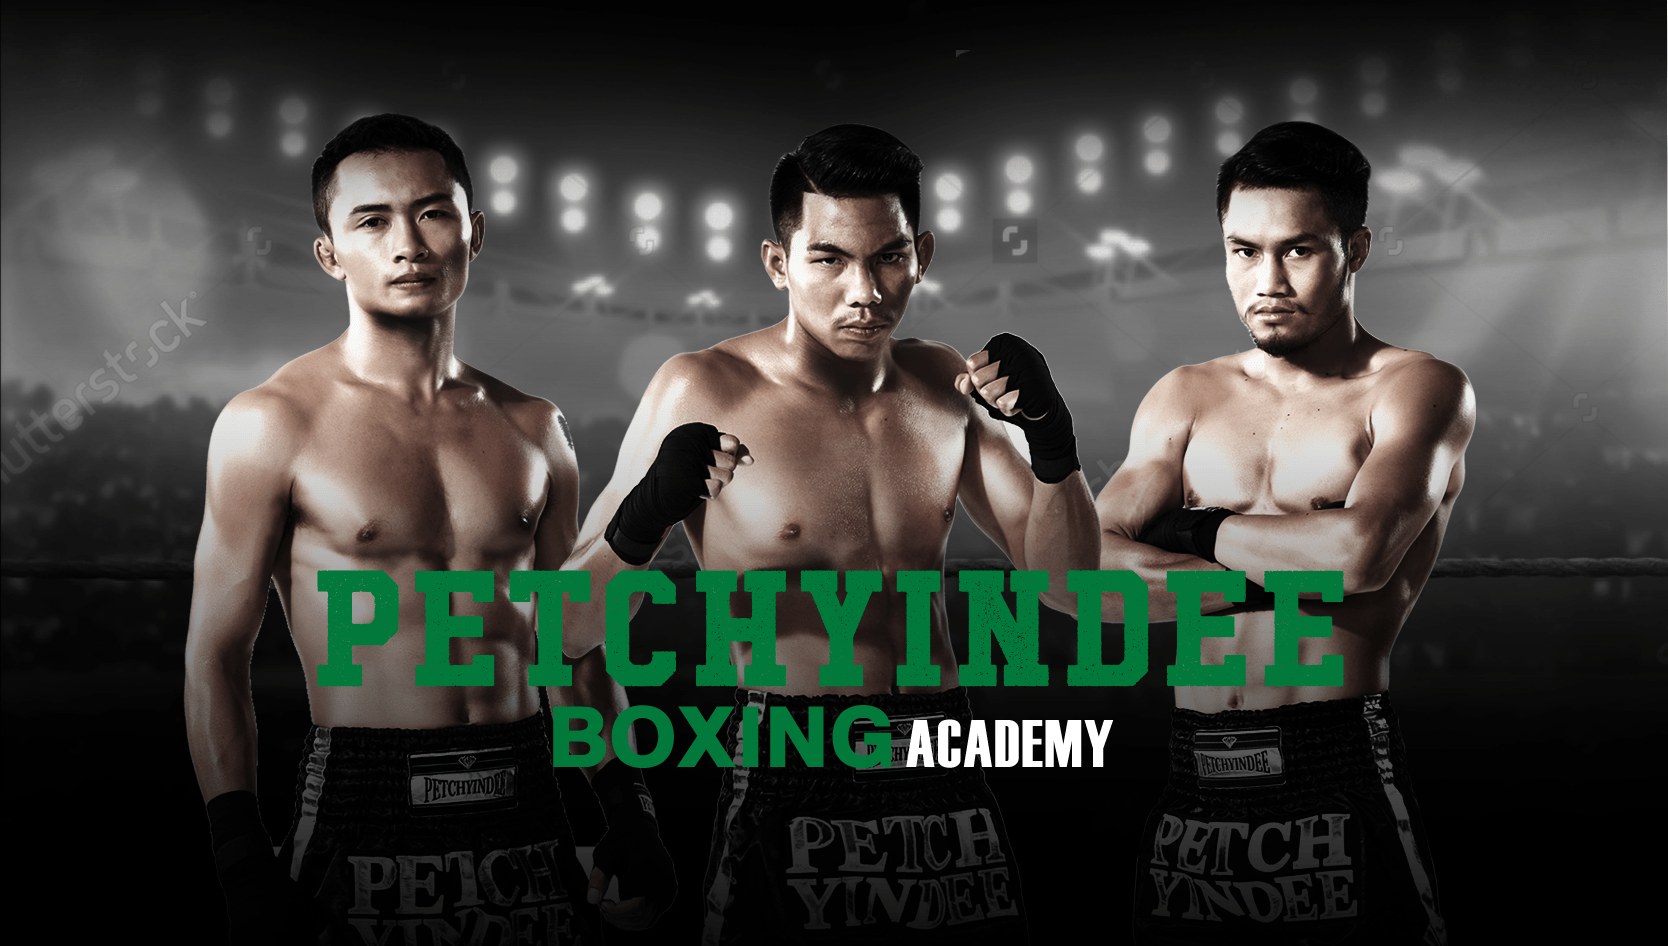
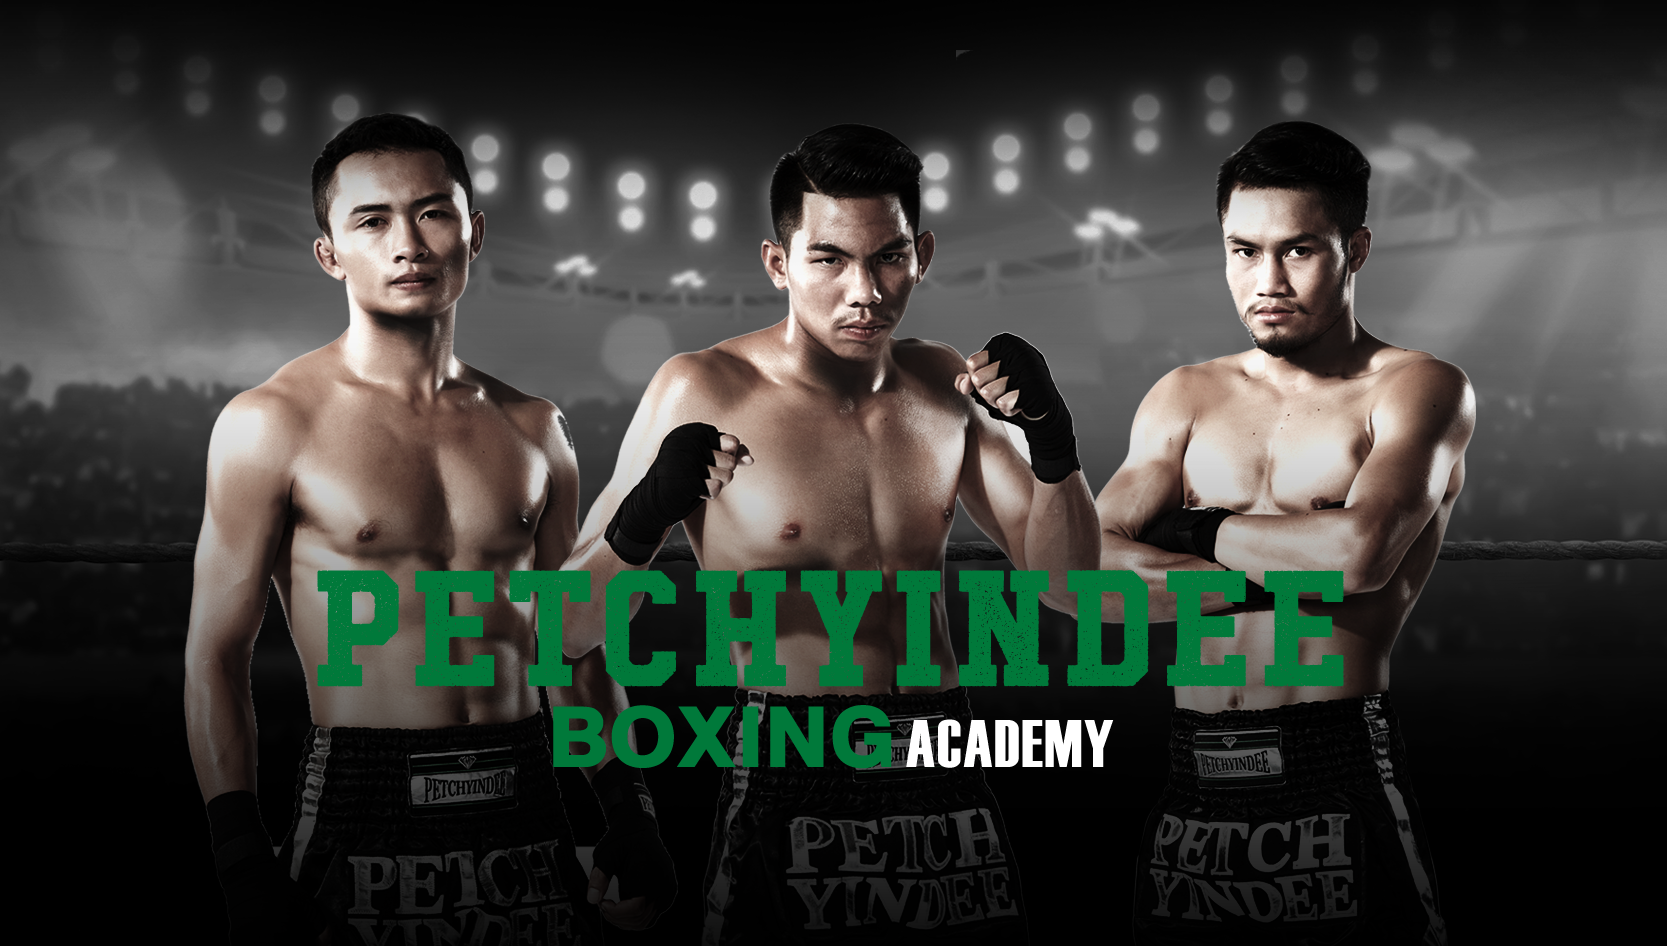
Change activity layout and header image

diff --git a/index.html b/index.html
@@ -67,38 +67,67 @@
         </div>
       </div>
     </div>
-    <div class="row ">
-      <div class="col-md-4 activity">
-        <div class="activity-container">
-          <img src="/images/muay-thai.png" />
-          <div class="caption">
-            <h4 class="text-green">MUAY THAI</h4>
-            <p class="desc">This class is a fun basic introduction to Muay Thai in a group-training environment where everyone learns how to kick, punch
-            and use their knees and elbows.</p>
-          </div>
+    <div class="activity-container">
+      <div class="row ">
+        <div class="col-md-4 activity">
+          <a href="#" class="activity-box">
+            <img src="/images/muay-thai.png" />
+            <div class="title-container">
+              <div class="title">MUAY THAI</div>
+              <div class="view-more">VIEW MORE</div>
+            </div>
+          </a>
+        </div>
+        <div class="col-md-4 activity">
+          <a href="#" class="activity-box">
+            <img src="/images/group-class.png" />
+            <div class="title-container">
+              <div class="title">TEMPO TRAMP</div>
+              <div class="view-more">VIEW MORE</div>
+            </div>
+          </a>
+        </div>
+        <div class="col-md-4 activity">
+          <a href="#" class="activity-box">
+            <img src="/images/circuit-training.png" />
+            <div class="title-container">
+              <div class="title">CIRCUIT TRAINING</div>
+              <div class="view-more">VIEW MORE</div>
+            </div>
+          </a>
         </div>
       </div>
-      <div class="col-md-4 activity">
-        <div class="activity-container">
-          <img src="/images/group-class.png" />
-          <div class="caption">
-            <h4 class="text-green">TEMPO TRAMP</h4>
-            <p class="desc">Bouncing on a mini trampoline is an enjoyable low-impact workout that can provide you with numerous cardiovascular, health
-            and fitness benefits.</p>
-          </div>
+      <div class="row ">
+        <div class="col-md-4 activity">
+          <a href="#" class="activity-box">
+            <img src="/images/muay-thai.png" />
+            <div class="title-container">
+              <div class="title">FAB ABS</div>
+              <div class="view-more">VIEW MORE</div>
+            </div>
+          </a>
         </div>
-      </div>
-      <div class="col-md-4 activity">
-        <div class="activity-container">
-          <img src="/images/circuit-training.png" />
-          <div class="caption">
-            <h4 class="text-green">CIRCUIT TRAINING</h4>
-            <p class="desc">Is a form of body conditioning or resistance training using high-intensity aerobics. It targets strength building or muscular
-            endurance.</p>
-          </div>
+        <div class="col-md-4 activity">
+          <a href="#" class="activity-box">
+            <img src="/images/group-class.png" />
+            <div class="title-container">
+              <div class="title">ZUMBA</div>
+              <div class="view-more">VIEW MORE</div>
+            </div>
+          </a>
+        </div>
+        <div class="col-md-4 activity">
+          <a href="#" class="activity-box">
+            <img src="/images/circuit-training.png" />
+            <div class="title-container">
+              <div class="title">PROFESSIONAL TRAINING</div>
+              <div class="view-more">VIEW MORE</div>
+            </div>
+          </a>
         </div>
       </div>
     </div>
+
     <div class="row promoter">
       <div class="col-12 p-0">
         <img src="/images/promoter.png" alt="" class="img-fluid img-cover">

diff --git a/css/style.css b/css/style.css
@@ -254,20 +254,18 @@ a:hover {
 }
 
 .carousel .text-overlay {
-  top: 20%;
+  top: 0;
   left: 0;
   right: 0;
   position: absolute;
+  width: 50%;
+  margin: 0 auto;
 }
 
-
-
-.carousel .logo-2 {
-  height: 177px;
-}
 
 .academy .logo-2 {
-  margin-top: 80px;
+  margin-top: 50px;
+  width: 25%;
 }
 
 .promoter .text-overlay {
@@ -442,32 +440,50 @@ a:hover {
   width: 100%;
 }
 
-.activities .caption {
-  color: #cdcdcd;
-  /* padding: 27px; */
+.activity-container {
+  background-color: black;
+  margin-top: -35%;
+  margin-bottom: 30px;
+  padding: 0 5%;
 }
 
-.activity-container {
-  margin: 0 auto;
-  background-color: black;
+.activity-container .row:nth-child(2) {
+  margin-top: 30px;
 }
+
+
 .activity-container img {
   width: 100%;
 }
 
-.activity .text-green {
-  margin-top: 1rem;
-  font-size: 36px;
+.activity {
+  font-size: 1.3vw;
+}
+
+.activity .title-container {
+  overflow: hidden;
+  background: black;
+}
+
+.activity .view-more {
+  background: #00793a;
+  color: white;
+  padding: .7em .6em;
+  font-size: .8em;
+  float: right;
+  width: 30%;
+  text-align: center;
 }
 
 .activity .title {
   text-align: left;
+  font-size: 1.5em;
+  color: #00793a;
+  float: left;
+  padding: 0px 0px 0px 10px;
+  width: 70%;
 }
 
-.activity .desc {
-  font-size: 25px;
-  font-weight: normal;
-}
 
 .next-page-box {
   border: 1px solid white;
@@ -568,7 +584,7 @@ a:hover {
   }
 
   .carousel .text-overlay {
-    top: 10%;
+    top: 0;
     left: 0;
     right: 0;
     position: absolute;
@@ -605,6 +621,14 @@ a:hover {
   }
   .share-fixed {
     display: none;
+  }
+  .activity-container {
+    margin: 0;
+    padding: 0;
+  }
+  .activity {
+    padding: 0;
+    font-size: 1.8rem;
   }
 }
 
